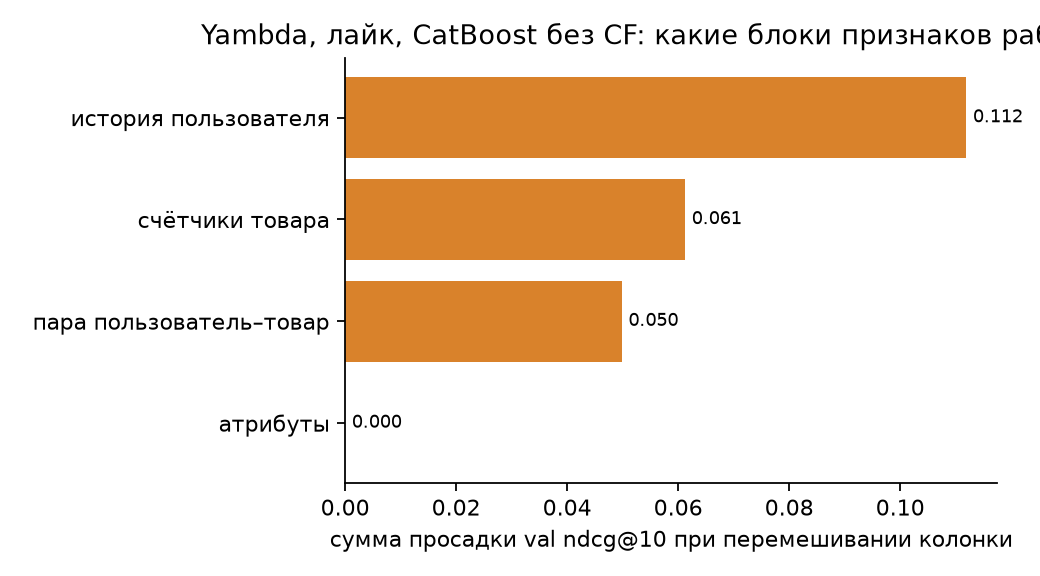
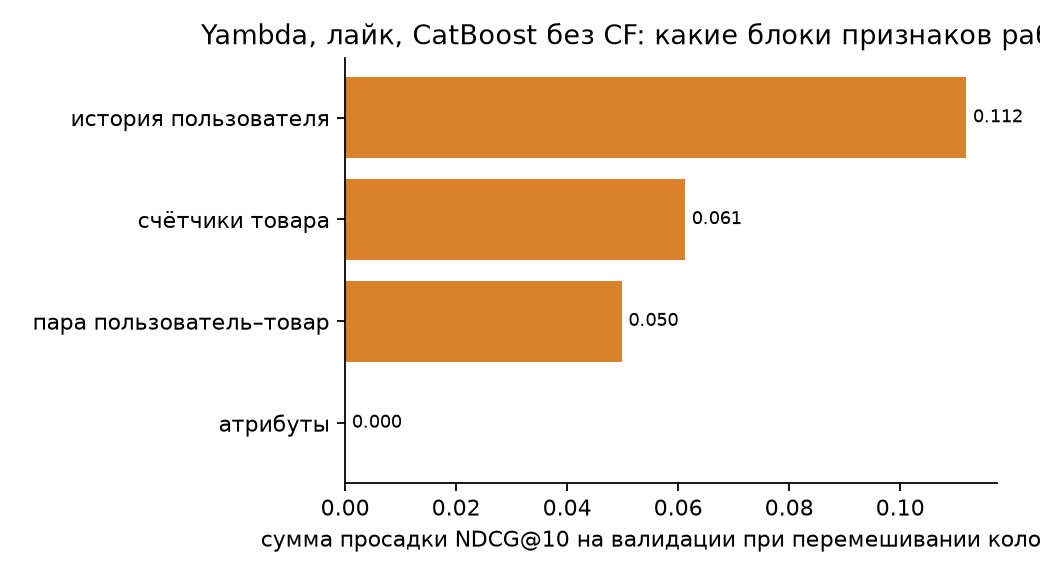
Report: no run numbers in the text, metric names in capitals

Changed region(s): [[0.2462, 0.9062, 1.0, 0.9688]]

diff --git a/5_report/figures.py b/5_report/figures.py
@@ -37,6 +37,7 @@ NAMES = {
     "tabicl_counts": "TabICL, SiLU / n",
     "tabicl_gates": "TabICL, softmax + STG",
 }
+TITLES = {"ndcg@10": "NDCG@10", "recall@10": "Recall@10", "roc_auc": "ROC AUC"}
 MARKERS = ["o", "s", "o", "s", "^", "o", "^", "o", "o", "s", "^"]
 FAMILY = {"popularity": "#9aa0a6", "ease": "#9aa0a6", "boosting": "#d9822b", "tabm": "#7b4fd8", "neural": "#3b7dd8", "tabicl": "#2a9d5c"}
 
@@ -59,7 +60,7 @@ def test_metrics(reports, title, out):
         bars = ax.barh([label(m, reports[m]) for m in order], values, color=[color(m) for m in order])
         ax.bar_label(bars, fmt="%.3f", padding=3, fontsize=8)
         ax.set_xlim(values.min() * 0.85, values.max() * 1.08)
-        ax.set_title(metric)
+        ax.set_title(TITLES[metric])
     fig.suptitle(f"{title}, test: одни и те же 200 юзеров × 300 кандидатов")
     fig.tight_layout()
     fig.savefig(out, dpi=160)
@@ -76,7 +77,7 @@ def val_curves(root, reports, title, out):
             left.plot(curve["iter"] + 1, curve["NDCG:top=10;type=Exp"], style, color=color(model), lw=1.4, label=NAMES[model])
     left.set_xscale("log")
     left.set_xlabel("число деревьев")
-    left.set_ylabel("val ndcg@10")
+    left.set_ylabel("NDCG@10 на валидации")
     left.legend(fontsize=8, loc="lower right")
     left.set_title("бустинг")
     for model, report in reports.items():
@@ -90,7 +91,7 @@ def val_curves(root, reports, title, out):
     right.set_xlabel("эпоха (0 у TabICL: предобученная модель без дообучения)")
     right.legend(fontsize=8, loc="lower right")
     right.set_title("нейросети, звезда: эпоха, которая идёт на test")
-    fig.suptitle(f"{title}, val ndcg@10 по ходу обучения")
+    fig.suptitle(f"{title}, NDCG@10 на валидации по ходу обучения")
     fig.tight_layout()
     fig.savefig(out, dpi=160)
     plt.close(fig)
@@ -142,7 +143,7 @@ def importance(root, title, out):
     fig, ax = plt.subplots(figsize=(6.5, 3.6))
     bars = ax.barh(by_block.index, by_block.values, color="#d9822b")
     ax.bar_label(bars, fmt="%.3f", padding=3, fontsize=8)
-    ax.set_xlabel("сумма просадки val ndcg@10 при перемешивании колонки")
+    ax.set_xlabel("сумма просадки NDCG@10 на валидации при перемешивании колонки")
     ax.set_title(f"{title}, CatBoost без CF: какие блоки признаков работают")
     fig.tight_layout()
     fig.savefig(out, dpi=160)
@@ -175,7 +176,7 @@ def sizes(runs, out):
         ax.set_xscale("log")
         ax.set_xlabel("число обучаемых чисел")
         ax.set_title(title)
-    axes[0].set_ylabel("test ndcg@10, 200 юзеров")
+    axes[0].set_ylabel("NDCG@10 на тесте, 200 пользователей")
     order = [model for model in NAMES if model in handles]
     fig.legend([handles[m] for m in order], [NAMES[m] for m in order], loc="lower center", ncol=4, fontsize=8, frameon=False)
     fig.suptitle("Размер модели и качество")

diff --git a/report.md b/report.md
@@ -11,9 +11,9 @@
 На обоих датасетах я делю конец лога на три окна по 14 дней. На первом окне модель учится, на втором я выбираю число деревьев или эпоху, на третьем один раз считаю тест. Признаки и историю для каждого окна беру только из событий до его начала, так что утечки из будущего нет. Кандидаты – 300 самых популярных "товаров" до начала окна, одни и те же для всех моделей.
 
 Смотрел на 3 главные метрики:
-- **ndcg@10** смотрит, насколько высоко в десятке лучших стоят фильмы, которые человек реально посмотрел. Это главная метрика, потому что рекомендации пользователь видит списком.
-- **recall@10** смотрит, какую долю досмотренного десятка вообще поймала.
-- **roc_auc** сравнивает все пары сразу. Поэтому он чувствителен к тому, сопоставимы ли скоры между разными пользователями, а не только к порядку внутри одного пользователя.
+- **NDCG@10** смотрит, насколько высоко в десятке лучших стоят фильмы, которые человек реально посмотрел. Это главная метрика, потому что рекомендации пользователь видит списком.
+- **Recall@10** смотрит, какую долю досмотренного десятка вообще поймала.
+- **ROC AUC** сравнивает все пары сразу. Поэтому он чувствителен к тому, сопоставимы ли скоры между разными пользователями, а не только к порядку внутри одного пользователя.
 
 Первый бейзлайн – популярность. Каждому пользователю она выдаёт один и тот же список: фильмы, у которых до окна больше всего разных досмотревших. Это нижняя граница, но на KION она сильная, потому что у многих пользователей истории нет совсем, и предложить им что-то лучше популярного нечем.
 
@@ -93,25 +93,25 @@
 
 *Рис. 1. Метрики на тесте KION. Оранжевым бустинг, синим нейросети, серым популярность и EASE. В скобках число признаков.*
 
-На KION лучше всех бустинг со скорами EASE и kNN, 0.309 по ndcg@10. Без этих скоров он падает до 0.284, ровно до уровня самого EASE, то есть около 0.025 ему даёт коллаборативная фильтрация. Автоматически сгенерированный набор из 489 признаков дал 0.265, хуже ручного. Трансформер над историей набрал 0.232 и проиграл даже популярности.
+На KION лучше всех бустинг со скорами EASE и kNN. Без этих скоров он опускается до уровня самого EASE, так что коллаборативная фильтрация даёт ему заметную часть качества. Автоматически сгенерированный набор признаков хуже ручного. Трансформер над историей проиграл даже популярности.
 
 ![Валидация по ходу обучения KION](5_report/figures/kion_val_curves.png)
 
-*Рис. 2. ndcg@10 на валидации по ходу обучения: слева по числу деревьев CatBoost, справа по эпохам нейросетей. Звездой отмечена эпоха, которая идёт на тест.*
+*Рис. 2. NDCG@10 на валидации по ходу обучения: слева по числу деревьев CatBoost, справа по эпохам нейросетей. Звездой отмечена эпоха, которая идёт на тест.*
 
-Бустинг выходит на плато за 100–300 деревьев. Трансформер лучше всего на второй эпохе, дальше валидация падает, и через три эпохи ранняя остановка его обрывает.
+Бустинг выходит на плато за несколько сотен деревьев. Трансформер лучше всего на второй эпохе, дальше валидация падает, и ранняя остановка его обрывает.
 
 ![Линейные пробы KION](5_report/figures/kion_probes.png)
 
 *Рис. 3. Линейные пробы на KION: R² ридж-регрессии из скрытого состояния пары в каждый ручной агрегат на отложенной половине пар.*
 
-Чтобы посмотреть, что трансформер считает сам, я поставил линейные пробы: ридж-регрессию из скрытого состояния пары в каждый ручной агрегат. Число досмотров фильма за всё время читается хорошо, R² 0.69. Его сеть выучивает через эмбеддинг и смещение фильма, которые обучаются на метках всех пользователей. Счётчики пользователя читаются хуже, около 0.4. Число событий пары почти не читается, 0.03, хотя это просто количество одного фильма в истории пользователя. Доли жанра и страны в истории, то есть деление одного счётчика на другой, держатся около 0.11.
+Чтобы посмотреть, что трансформер считает сам, я поставил линейные пробы: ридж-регрессию из скрытого состояния пары в каждый ручной агрегат. Лучше всего читается число досмотров фильма за всё время. Его сеть выучивает через эмбеддинг и смещение фильма, которые обучаются на метках всех пользователей. Счётчики пользователя читаются хуже. Число событий пары почти не читается, хотя это просто количество одного фильма в истории пользователя. Доли жанра и страны в истории, то есть деление одного счётчика на другой, тоже почти не читаются.
 
 ![Важность блоков признаков KION](5_report/figures/kion_importance.png)
 
-*Рис. 4. Просадка ndcg@10 на валидации, если перемешать одну колонку, просуммированная по блокам признаков. Модель CatBoost на ручных признаках без скоров EASE и kNN.*
+*Рис. 4. Просадка NDCG@10 на валидации, если перемешать одну колонку, просуммированная по блокам признаков. Модель CatBoost на ручных признаках без скоров EASE и kNN.*
 
-Если перемешивать колонки бустинга, счётчики фильма по всем пользователям дают 0.228 просадки, атрибуты 0.025, история пользователя и пара по 0.008. Больше всего из них дают досмотры и события фильма за последнюю неделю.
+Если перемешивать колонки бустинга, почти вся просадка приходится на счётчики фильма по всем пользователям, больше всего на досмотры и события за последнюю неделю. Атрибуты, история пользователя и пара дают мало.
 
 ### Yambda
 
@@ -123,7 +123,7 @@
 
 *Рис. 6. Метрики на тесте Yambda, таргет лайк.*
 
-На Yambda разрыв ещё больше. На прослушиваниях все три варианта бустинга дают 0.58–0.59, EASE 0.46, трансформер 0.21, популярность 0.13. Лайков в 12 раз меньше, чем прослушиваний, и там бустинг даёт 0.13–0.14, а EASE, трансформер и популярность от 0.02 до 0.03. Автоматически сгенерированный набор здесь работает так же, как ручной.
+На Yambda разрыв ещё больше. На прослушиваниях все три варианта бустинга почти одинаковые и сильно впереди, за ними EASE, потом трансформер, и в самом конце популярность. Лайков на порядок меньше, чем прослушиваний, и там бустинг впереди уже в несколько раз, а EASE, трансформер и популярность почти неразличимы. Автоматически сгенерированный набор здесь работает так же, как ручной.
 
 ![Важность блоков признаков Yambda, прослушивание](5_report/figures/yambda_listen_importance.png)
 
@@ -133,31 +133,31 @@
 
 *Рис. 8. Важность блоков признаков на Yambda, лайк.*
 
-А вот важность признаков на Yambda совсем другая. На прослушиваниях больше всего даёт пара пользователь–трек, 0.133: люди переслушивают одни и те же треки, и счётчик прошлых прослушиваний пары предсказывает следующее. На лайках больше всего даёт история пользователя, 0.112. То есть здесь всё нужное лежит в истории самого пользователя, а трансформер видит из неё последние 512 событий.
+А вот важность признаков на Yambda совсем другая. На прослушиваниях больше всего даёт пара пользователь–трек: люди переслушивают одни и те же треки, и счётчик прошлых прослушиваний пары предсказывает следующее. На лайках больше всего даёт история пользователя. То есть здесь всё нужное лежит в истории самого пользователя, а трансформер видит из неё последние 512 событий.
 
 ![Валидация по ходу обучения Yambda, прослушивание](5_report/figures/yambda_listen_val_curves.png)
 
-*Рис. 9. ndcg@10 на валидации Yambda, прослушивание.*
+*Рис. 9. NDCG@10 на валидации Yambda, прослушивание.*
 
 ![Линейные пробы Yambda, прослушивание](5_report/figures/yambda_listen_probes.png)
 
 *Рис. 10. Линейные пробы на Yambda, прослушивание.*
 
-И всё равно трансформер проигрывает бустингу почти в три раза. По пробам число прослушиваний пары читается из его состояния с R² 0.04, хотя все эти прослушивания стоят у него на входе. Правда, на прослушиваниях трансформер не дошёл до плато, валидация росла до последней, тридцатой эпохи (рис. 9). Но к концу она прибавляла меньше 0.005 за эпоху, и чтобы дойти до 0.58, ему понадобилось бы ещё больше 70 эпох.
+И всё равно трансформер проигрывает бустингу в разы. По пробам число прослушиваний пары почти не читается из его состояния, хотя все эти прослушивания стоят у него на входе. Правда, на прослушиваниях трансформер не дошёл до плато, валидация росла до последней эпохи (рис. 9). Но к концу она прибавляла так мало, что до бустинга ему пришлось бы учиться ещё в несколько раз дольше.
 
 ### Размер моделей
 
 ![Размер модели и качество](5_report/figures/sizes.png)
 
-*Рис. 11. ndcg@10 на тесте против числа обучаемых чисел. У CatBoost это число деревьев, умноженное на 64 листа и 6 порогов, у EASE матрица «товар на товар», у популярности одно число на товар.*
+*Рис. 11. NDCG@10 на тесте против числа обучаемых чисел. У CatBoost это число деревьев, умноженное на 64 листа и 6 порогов, у EASE матрица «товар на товар», у популярности одно число на товар.*
 
-Я посчитал, сколько обучаемых чисел у каждой модели. У CatBoost от 2 до 22 тысяч, у трансформера от 0.7 до 2.7 миллиона параметров, у EASE матрица «товар на товар» на 27–400 миллионов. Самая маленькая модель лучше всех на всех трёх задачах, так что дело не в размере.
+Я посчитал, сколько обучаемых чисел у каждой модели. У CatBoost их меньше всех, кроме популярности, у трансформера на два порядка больше, а у EASE больше всех. Самая маленькая модель лучше всех на всех трёх задачах, так что дело не в размере.
 ## Итог
 Ручные признаки выигрывают у глубоких моделей по двум причинам, и каждый датасет показывает свою.
 
 Первая – в строке и в истории пользователя нет нужных данных. На KION это видно напрямую: почти вся польза бустинга сидит в счётчиках фильма по всем пользователям, а трансформер над историей проигрывает даже популярности. Из статистики других пользователей он достаёт только популярность фильма, и то через смещение фильма, которое учится на метках всех пользователей.
 
-Вторая – выразительность: пороги, количество, деление и длинные цепочки операций градиентный спуск находит плохо. На Yambda данные лежат в истории пользователя, трансформер их видит, но число повторов пары из них не собирает: softmax-внимание даёт среднее, и пять прослушиваний одного трека для него то же, что одно. Доли жанра, страны, артиста и альбома, то есть деление, не читаются из его состояния ни на одном датасете. И дело не в размере, у бустинга обучаемых чисел в сотни раз меньше.
+Вторая – выразительность: пороги, количество, деление и длинные цепочки операций градиентный спуск находит плохо. На Yambda данные лежат в истории пользователя, трансформер их видит, но число повторов пары из них не собирает: softmax-внимание даёт среднее, и пять прослушиваний одного трека для него то же, что одно. Доли жанра, страны, артиста и альбома, то есть деление, не читаются из его состояния ни на одном датасете. И дело не в размере, у бустинга обучаемых чисел на порядки меньше.
 
 Перебор агрегатов эти дыры не закрывает: на KION он ухудшил бустинг, на Yambda ничего не добавил. Поэтому решение должно подавать глобальную статистику отдельным входом, встраивать трудные операции в архитектуру готовыми, а пороги переносить во вход корзинами. В TabICL это строки других пользователей в контексте и свёртка `SiLU(·/√d)/n`, которая сохраняет количество.
 
